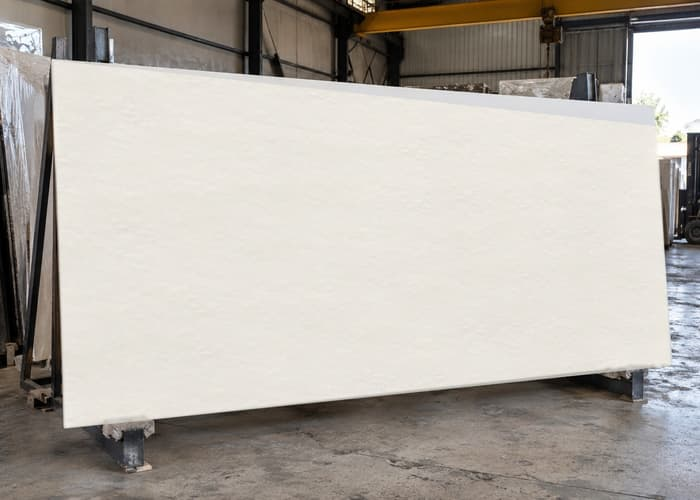
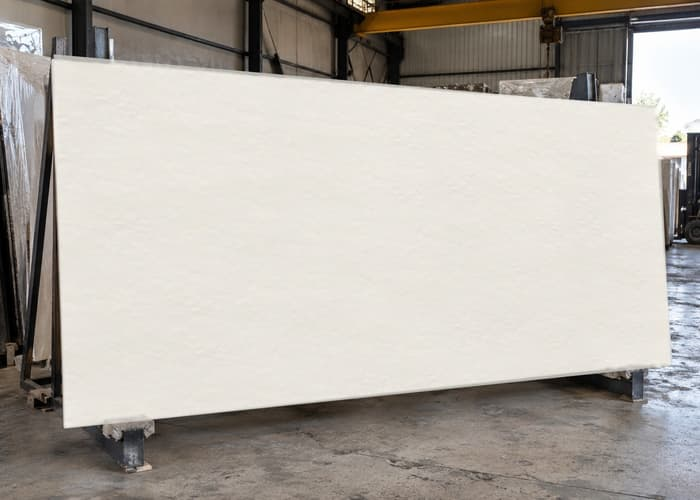
Ajustes de fotos de piedras y espacios
Claude-Session: https://claude.ai/code/session_01XZgzLypF4xPq3GVo6zprEi

Changed region(s): [[0.06, 0.09, 0.63, 0.18], [0.93, 0.33, 0.96, 0.42], [0.63, 0.18, 0.69, 0.21]]

diff --git a/index.html b/index.html
@@ -379,7 +379,7 @@ footer small{display:block;margin-top:16px;opacity:.7}
 
 <section class="sec oscuro2" id="proyectos"><div class="w"><div class="cab-f"><div class="cab rv"><p class="et">Proyectos</p><h2>Mesas <em>DKAS.</em></h2><p>Comedores y terrazas. Toca una foto para verla en grande y diseñar una así.</p></div>
   <div class="filtros rv"><button class="on" data-f="">Todas</button><button data-f="comedor">Comedor</button><button data-f="exterior">Terraza y jardín</button></div></div>
-  <div class="grid-e" id="mas-g"><figure class="rv" data-c="comedor" data-v='{"t":"Comedor para 12","p":"bulgaria-dark-grey","u":"comedor","f":"rect","k":"e-r1"}'><img src="img/l/e-r1.jpg" srcset="img/l/e-r1-m.jpg 700w, img/l/e-r1.jpg 1400w" sizes="(min-width:980px) 33vw, (min-width:700px) 50vw, 100vw" alt="Comedor para 12 · mesa en Bulgaria Dark Grey" loading="lazy" decoding="async"><figcaption><b>Comedor para 12</b><span>Bulgaria Dark Grey</span></figcaption></figure><figure class="rv" data-c="exterior" data-v='{"t":"Terraza con jardín","p":"bulgaria-dark-grey","u":"comedor","f":"ovcuad","k":"e-p20"}'><img src="img/l/e-p20.jpg" srcset="img/l/e-p20-m.jpg 700w, img/l/e-p20.jpg 1400w" sizes="(min-width:980px) 33vw, (min-width:700px) 50vw, 100vw" alt="Terraza con jardín · mesa en Bulgaria Dark Grey" loading="lazy" decoding="async"><figcaption><b>Terraza con jardín</b><span>Bulgaria Dark Grey</span></figcaption></figure><figure class="rv" data-c="comedor" data-v='{"t":"Comedor","p":"travertine","u":"comedor","f":"rect","k":"e-p21"}'><img src="img/l/e-p21.jpg" srcset="img/l/e-p21-m.jpg 700w, img/l/e-p21.jpg 1400w" sizes="(min-width:980px) 33vw, (min-width:700px) 50vw, 100vw" alt="Comedor · mesa en Travertine" loading="lazy" decoding="async"><figcaption><b>Comedor</b><span>Travertine</span></figcaption></figure><figure class="rv" data-c="exterior" data-v='{"t":"Junto a la alberca","p":"bulgaria-dark-grey","u":"comedor","f":"square","k":"e-r6"}'><img src="img/l/e-r6.jpg" srcset="img/l/e-r6-m.jpg 700w, img/l/e-r6.jpg 1400w" sizes="(min-width:980px) 33vw, (min-width:700px) 50vw, 100vw" alt="Junto a la alberca · mesa en Bulgaria Dark Grey" loading="lazy" decoding="async"><figcaption><b>Junto a la alberca</b><span>Bulgaria Dark Grey</span></figcaption></figure><figure class="rv" data-c="comedor" data-v='{"t":"Comedor para 8","p":"","u":"comedor","f":"rect","k":"e-p9"}'><img src="img/l/e-p9.jpg" srcset="img/l/e-p9-m.jpg 700w, img/l/e-p9.jpg 1400w" sizes="(min-width:980px) 33vw, (min-width:700px) 50vw, 100vw" alt="Comedor para 8 · mesa DKAS" loading="lazy" decoding="async"><figcaption><b>Comedor para 8</b></figcaption></figure><figure class="rv" data-c="exterior" data-v='{"t":"Comedor en jardín","p":"bulgaria-dark-grey","u":"comedor","f":"ovcuad","k":"e-p20f"}'><img src="img/l/e-p20f.jpg" srcset="img/l/e-p20f-m.jpg 700w, img/l/e-p20f.jpg 1400w" sizes="(min-width:980px) 33vw, (min-width:700px) 50vw, 100vw" alt="Comedor en jardín · mesa en Bulgaria Dark Grey" loading="lazy" decoding="async"><figcaption><b>Comedor en jardín</b><span>Bulgaria Dark Grey</span></figcaption></figure><figure class="rv" data-c="comedor" data-v='{"t":"Comedor de día","p":"bulgaria-dark-grey","u":"comedor","f":"ovcuad","k":"e-r2"}'><img src="img/l/e-r2.jpg" srcset="img/l/e-r2-m.jpg 700w, img/l/e-r2.jpg 1400w" sizes="(min-width:980px) 33vw, (min-width:700px) 50vw, 100vw" alt="Comedor de día · mesa en Bulgaria Dark Grey" loading="lazy" decoding="async"><figcaption><b>Comedor de día</b><span>Bulgaria Dark Grey</span></figcaption></figure><figure class="rv" data-c="exterior" data-v='{"t":"Terraza","p":"","u":"comedor","f":"rect","k":"e-r3"}'><img src="img/l/e-r3.jpg" srcset="img/l/e-r3-m.jpg 700w, img/l/e-r3.jpg 1400w" sizes="(min-width:980px) 33vw, (min-width:700px) 50vw, 100vw" alt="Terraza · mesa DKAS" loading="lazy" decoding="async"><figcaption><b>Terraza</b></figcaption></figure><figure class="rv" data-c="comedor" data-v='{"t":"Comedor","p":"","u":"comedor","f":"rect","k":"e-p29"}'><img src="img/l/e-p29.jpg" srcset="img/l/e-p29-m.jpg 700w, img/l/e-p29.jpg 1400w" sizes="(min-width:980px) 33vw, (min-width:700px) 50vw, 100vw" alt="Comedor · mesa DKAS" loading="lazy" decoding="async"><figcaption><b>Comedor</b></figcaption></figure><figure class="rv" data-c="exterior" data-v='{"t":"Terraza techada","p":"","u":"comedor","f":"rect","k":"e-arriba"}'><img src="img/l/e-arriba.jpg" srcset="img/l/e-arriba-m.jpg 700w, img/l/e-arriba.jpg 1400w" sizes="(min-width:980px) 33vw, (min-width:700px) 50vw, 100vw" alt="Terraza techada · mesa DKAS" loading="lazy" decoding="async"><figcaption><b>Terraza techada</b></figcaption></figure><figure class="rv" data-c="comedor" data-v='{"t":"Comedor ovalado","p":"bulgaria-dark-grey","u":"comedor","f":"ovcuad","k":"e-p2"}'><img src="img/l/e-p2.jpg" srcset="img/l/e-p2-m.jpg 700w, img/l/e-p2.jpg 1400w" sizes="(min-width:980px) 33vw, (min-width:700px) 50vw, 100vw" alt="Comedor ovalado · mesa en Bulgaria Dark Grey" loading="lazy" decoding="async"><figcaption><b>Comedor ovalado</b><span>Bulgaria Dark Grey</span></figcaption></figure><figure class="rv" data-c="comedor" data-v='{"t":"Comedor para 6","p":"","u":"comedor","f":"ovcuad","k":"e-p6"}'><img src="img/l/e-p6.jpg" srcset="img/l/e-p6-m.jpg 700w, img/l/e-p6.jpg 1400w" sizes="(min-width:980px) 33vw, (min-width:700px) 50vw, 100vw" alt="Comedor para 6 · mesa DKAS" loading="lazy" decoding="async"><figcaption><b>Comedor para 6</b></figcaption></figure></div></div></section>
+  <div class="grid-e" id="mas-g"><figure class="rv" data-c="comedor" data-v='{"t":"Comedor para 12","p":"bulgaria-dark-grey","u":"comedor","f":"rect","k":"e-r1"}'><img src="img/l/e-r1.jpg" srcset="img/l/e-r1-m.jpg 700w, img/l/e-r1.jpg 1400w" sizes="(min-width:980px) 33vw, (min-width:700px) 50vw, 100vw" alt="Comedor para 12 · mesa en Bulgaria Dark Grey" loading="lazy" decoding="async"><figcaption><b>Comedor para 12</b><span>Bulgaria Dark Grey</span></figcaption></figure><figure class="rv" data-c="exterior" data-v='{"t":"Terraza con jardín","p":"bulgaria-dark-grey","u":"comedor","f":"ovcuad","k":"e-p20"}'><img src="img/l/e-p20.jpg" srcset="img/l/e-p20-m.jpg 700w, img/l/e-p20.jpg 1400w" sizes="(min-width:980px) 33vw, (min-width:700px) 50vw, 100vw" alt="Terraza con jardín · mesa en Bulgaria Dark Grey" loading="lazy" decoding="async"><figcaption><b>Terraza con jardín</b><span>Bulgaria Dark Grey</span></figcaption></figure><figure class="rv" data-c="comedor" data-v='{"t":"Comedor","p":"","u":"comedor","f":"rect","k":"e-p21"}'><img src="img/l/e-p21.jpg" srcset="img/l/e-p21-m.jpg 700w, img/l/e-p21.jpg 1400w" sizes="(min-width:980px) 33vw, (min-width:700px) 50vw, 100vw" alt="Comedor · mesa DKAS" loading="lazy" decoding="async"><figcaption><b>Comedor</b></figcaption></figure><figure class="rv" data-c="exterior" data-v='{"t":"Junto a la alberca","p":"bulgaria-dark-grey","u":"comedor","f":"square","k":"e-r6"}'><img src="img/l/e-r6.jpg" srcset="img/l/e-r6-m.jpg 700w, img/l/e-r6.jpg 1400w" sizes="(min-width:980px) 33vw, (min-width:700px) 50vw, 100vw" alt="Junto a la alberca · mesa en Bulgaria Dark Grey" loading="lazy" decoding="async"><figcaption><b>Junto a la alberca</b><span>Bulgaria Dark Grey</span></figcaption></figure><figure class="rv" data-c="comedor" data-v='{"t":"Comedor para 8","p":"","u":"comedor","f":"rect","k":"e-p9"}'><img src="img/l/e-p9.jpg" srcset="img/l/e-p9-m.jpg 700w, img/l/e-p9.jpg 1400w" sizes="(min-width:980px) 33vw, (min-width:700px) 50vw, 100vw" alt="Comedor para 8 · mesa DKAS" loading="lazy" decoding="async"><figcaption><b>Comedor para 8</b></figcaption></figure><figure class="rv" data-c="exterior" data-v='{"t":"Comedor en jardín","p":"bulgaria-dark-grey","u":"comedor","f":"ovcuad","k":"e-p20f"}'><img src="img/l/e-p20f.jpg" srcset="img/l/e-p20f-m.jpg 700w, img/l/e-p20f.jpg 1400w" sizes="(min-width:980px) 33vw, (min-width:700px) 50vw, 100vw" alt="Comedor en jardín · mesa en Bulgaria Dark Grey" loading="lazy" decoding="async"><figcaption><b>Comedor en jardín</b><span>Bulgaria Dark Grey</span></figcaption></figure><figure class="rv" data-c="comedor" data-v='{"t":"Comedor de día","p":"bulgaria-dark-grey","u":"comedor","f":"ovcuad","k":"e-r2"}'><img src="img/l/e-r2.jpg" srcset="img/l/e-r2-m.jpg 700w, img/l/e-r2.jpg 1400w" sizes="(min-width:980px) 33vw, (min-width:700px) 50vw, 100vw" alt="Comedor de día · mesa en Bulgaria Dark Grey" loading="lazy" decoding="async"><figcaption><b>Comedor de día</b><span>Bulgaria Dark Grey</span></figcaption></figure><figure class="rv" data-c="exterior" data-v='{"t":"Terraza","p":"","u":"comedor","f":"rect","k":"e-r3"}'><img src="img/l/e-r3.jpg" srcset="img/l/e-r3-m.jpg 700w, img/l/e-r3.jpg 1400w" sizes="(min-width:980px) 33vw, (min-width:700px) 50vw, 100vw" alt="Terraza · mesa DKAS" loading="lazy" decoding="async"><figcaption><b>Terraza</b></figcaption></figure><figure class="rv" data-c="comedor" data-v='{"t":"Comedor","p":"","u":"comedor","f":"rect","k":"e-p29"}'><img src="img/l/e-p29.jpg" srcset="img/l/e-p29-m.jpg 700w, img/l/e-p29.jpg 1400w" sizes="(min-width:980px) 33vw, (min-width:700px) 50vw, 100vw" alt="Comedor · mesa DKAS" loading="lazy" decoding="async"><figcaption><b>Comedor</b></figcaption></figure><figure class="rv" data-c="exterior" data-v='{"t":"Terraza","p":"","u":"comedor","f":"rect","k":"e-arriba"}'><img src="img/l/e-arriba.jpg" srcset="img/l/e-arriba-m.jpg 700w, img/l/e-arriba.jpg 1400w" sizes="(min-width:980px) 33vw, (min-width:700px) 50vw, 100vw" alt="Terraza · mesa DKAS" loading="lazy" decoding="async"><figcaption><b>Terraza</b></figcaption></figure><figure class="rv" data-c="comedor" data-v='{"t":"Comedor ovalado","p":"bulgaria-dark-grey","u":"comedor","f":"ovcuad","k":"e-p2"}'><img src="img/l/e-p2.jpg" srcset="img/l/e-p2-m.jpg 700w, img/l/e-p2.jpg 1400w" sizes="(min-width:980px) 33vw, (min-width:700px) 50vw, 100vw" alt="Comedor ovalado · mesa en Bulgaria Dark Grey" loading="lazy" decoding="async"><figcaption><b>Comedor ovalado</b><span>Bulgaria Dark Grey</span></figcaption></figure><figure class="rv" data-c="comedor" data-v='{"t":"Comedor para 6","p":"","u":"comedor","f":"ovcuad","k":"e-p6"}'><img src="img/l/e-p6.jpg" srcset="img/l/e-p6-m.jpg 700w, img/l/e-p6.jpg 1400w" sizes="(min-width:980px) 33vw, (min-width:700px) 50vw, 100vw" alt="Comedor para 6 · mesa DKAS" loading="lazy" decoding="async"><figcaption><b>Comedor para 6</b></figcaption></figure></div></div></section>
 
 <section class="sec" id="como"><div class="w"><div class="cab rv"><p class="et">Cómo funciona</p><h2>De tu idea <em>a tu casa.</em></h2></div>
   <ol class="pasos-l rv"><li><span>01</span><b>Diseña</b><p>Arma tu mesa aquí en 3D, o mándanos tu idea o una foto por WhatsApp.</p></li><li><span>02</span><b>Cotiza</b><p>Te mandamos precio, medidas y croquis. Con el 50% de anticipo empezamos.</p></li><li><span>03</span><b>Fabricamos</b><p>Cortamos la piedra y hacemos la base en nuestro taller. Alrededor de 3 semanas.</p></li><li><span>04</span><b>Instalamos</b><p>La llevamos, la armamos y la nivelamos en tu espacio, lista para usarse.</p></li></ol></div></section>
